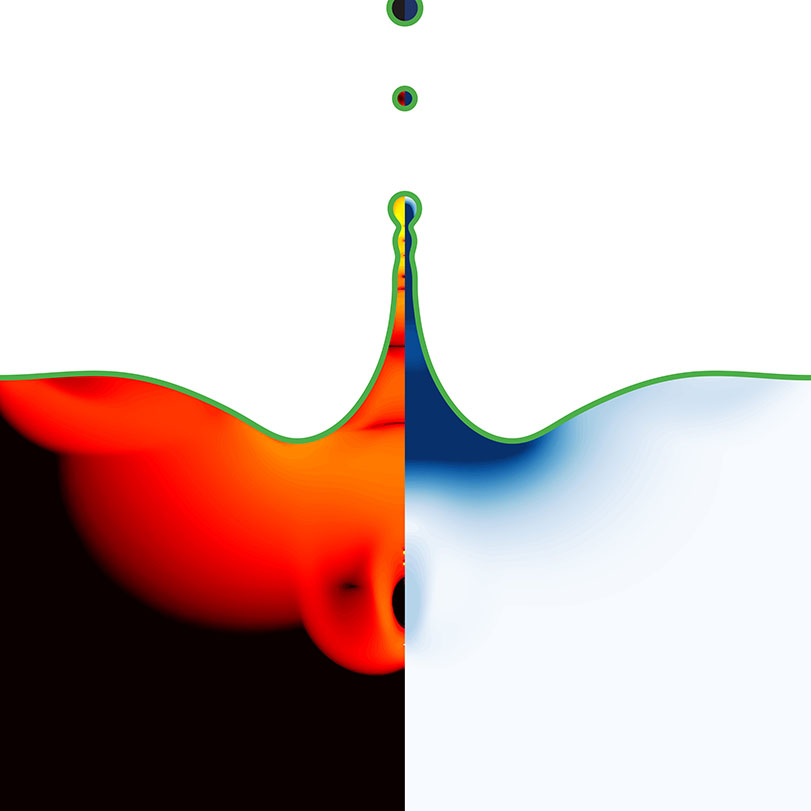
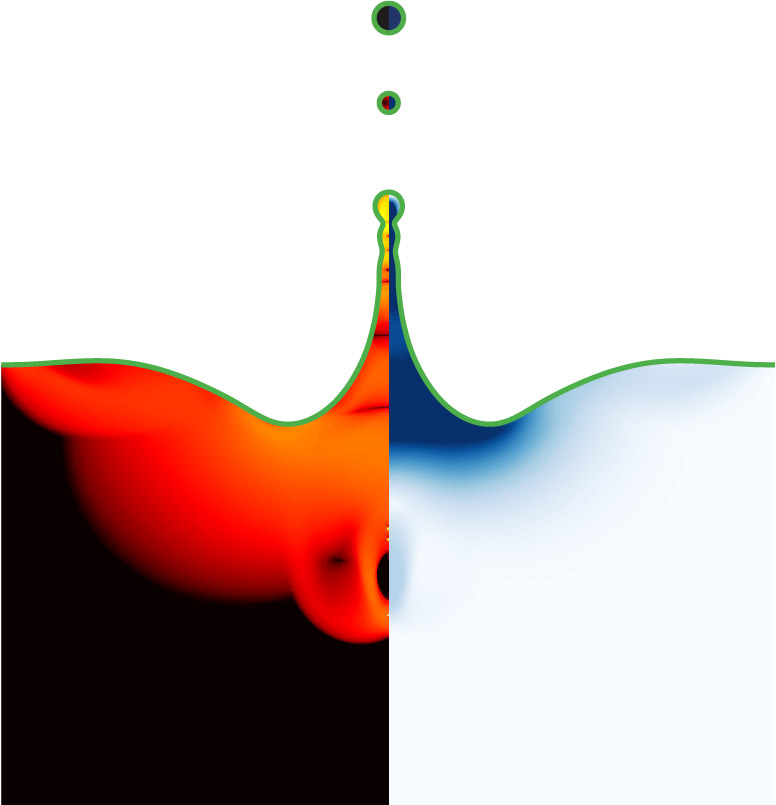
feat(styles): Implement dark theme for website
This commit introduces a dark theme for the website, with the following key changes:

- Adjust padding and background styles for the main content area to better suit the dark theme.
- Update the styles for the "About" section, including the title and description, to work with the dark theme.
- Modify the styles for the "Intro" section, including the background image and content box, to work with the dark theme.
- Add custom styles for social icons in the "Intro" section to match the dark theme gradient.
- Implement dark theme styles for the "Team" section, including text colors, link colors, and background styles.
- Add theme-aware styles for the "About" and "News" content sections to ensure proper text and link colors.
- Adjust the styles for specific link types (PDF, DOI) in the "News" section to work with the dark theme.

These changes provide a cohesive dark theme experience for the website, improving the overall visual appeal and user experience.

Changed region(s): [[0.0, 0.2174, 1.0, 0.8385], [0.4639, 0.0, 0.5258, 0.0621], [0.4639, 0.0932, 0.5258, 0.1553]]

diff --git a/assets/css/styles.css b/assets/css/styles.css
@@ -71,6 +71,89 @@ body {
   color: white !important;
 }
 
+/* Theme-aware content styling */
+[data-theme="dark"] #about-content a,
+[data-theme="dark"] #news-content a {
+  color: #6fa1ff;
+}
+
+[data-theme="dark"] #about-content h1,
+[data-theme="dark"] #about-content h2,
+[data-theme="dark"] #about-content h3,
+[data-theme="dark"] #news-content h1,
+[data-theme="dark"] #news-content h2,
+[data-theme="dark"] #news-content h3 {
+  color: var(--color-text);
+}
+
+/* Handle specific link and icon coloring in news */
+[data-theme="dark"] #news-content a[href$=".pdf"] {
+  color: #6fa1ff !important;
+}
+
+[data-theme="dark"] #news-content a[href^="https://doi.org"] {
+  color: #ff8650 !important;
+}
+
+[data-theme="dark"] #news-content a[href$=".pdf"] i,
+[data-theme="dark"] #news-content a[href^="https://doi.org"] i {
+  color: inherit !important;
+}
+
+/* Fix image shadows in dark mode */
+[data-theme="dark"] #news-content img {
+  box-shadow: 0 4px 8px rgba(0, 0, 0, 0.4) !important;
+}
+
+/* Fix section backgrounds in dark mode */
+[data-theme="dark"] .s-about,
+[data-theme="dark"] .s-featured,
+[data-theme="dark"] .s-featured__left,
+[data-theme="dark"] .s-featured__right,
+[data-theme="dark"] .featured-paper {
+  background-color: var(--color-background) !important;
+}
+
+/* Match About and News container styles in dark mode */
+[data-theme="dark"] .s-about__grid {
+  background: linear-gradient(145deg, rgba(35, 35, 45, 0.7), rgba(30, 30, 38, 0.8)) !important;
+  backdrop-filter: blur(12px);
+  border: 1px solid rgba(255, 255, 255, 0.1);
+}
+
+/* Fix h3 headings in dark mode */
+[data-theme="dark"] h3 {
+  color: #e0e0e0 !important;
+}
+
+/* YouTube stats card theme switching */
+.youtube-stats-light {
+  display: block;
+}
+
+.youtube-stats-dark {
+  display: none;
+}
+
+[data-theme="dark"] .youtube-stats-light {
+  display: none;
+}
+
+[data-theme="dark"] .youtube-stats-dark {
+  display: block;
+}
+
+/* Fix box shadows and borders in dark mode */
+[data-theme="dark"] .featured-paper,
+[data-theme="dark"] .s-about__grid {
+  box-shadow: 0 4px 16px rgba(0, 0, 0, 0.4) !important;
+  border: 1px solid rgba(255, 255, 255, 0.1) !important;
+}
+
+[data-theme="dark"] .s-about__social-header {
+  border-bottom: 1px solid rgba(255, 255, 255, 0.1);
+}
+
 /* Preloader */
 #preloader {
   position: fixed;
@@ -347,6 +430,12 @@ body {
   filter: brightness(0.9) contrast(1.1);
 }
 
+[data-theme="dark"] .s-intro__bg {
+  background-image: url('../../featured/GraphicalAbstract_v7_FrontOnly-darkTheme.jpg');
+  opacity: 0.9;
+  filter: brightness(0.85) contrast(1.15);
+}
+
 .s-intro__content {
   max-width: 800px;
   margin: 0 auto;
@@ -357,6 +446,25 @@ body {
   padding: 4rem;
   border-radius: 10px;
   box-shadow: 0 4px 30px rgba(0, 0, 0, 0.2);
+}
+
+[data-theme="dark"] .s-intro__content {
+  background: linear-gradient(145deg, rgba(35, 35, 45, 0.75), rgba(30, 30, 38, 0.85));
+  box-shadow: 0 4px 30px rgba(0, 0, 0, 0.3);
+  border: 1px solid rgba(255, 255, 255, 0.1);
+}
+
+/* Social icons styling - matching title gradient in dark mode */
+[data-theme="dark"] .ai-orcid {
+  color: #ff8888 !important; /* Match left side of gradient (red) */
+}
+
+[data-theme="dark"] .fa-github {
+  color: #9077ff !important; /* Match middle of gradient (purple/blue mix) */
+}
+
+[data-theme="dark"] .ai-google-scholar {
+  color: #546cff !important; /* Match right side of gradient (blue) */
 }
 
 .s-intro__pretitle {
@@ -387,8 +495,25 @@ body {
   background-clip: text;
   color: transparent;
   text-shadow: 2px 2px 3px rgba(0, 0, 0, 0.2);
-  letter-spacing: 0.02em;
+  letter-spacing: 0.015em;
   font-weight: 800;
+  -webkit-font-smoothing: antialiased;
+  -moz-osx-font-smoothing: grayscale;
+  text-rendering: optimizeLegibility;
+}
+
+[data-theme="dark"] .s-intro__title {
+  background: linear-gradient(90deg, 
+    #ff8888 0%, 
+    #ff6666 35%, 
+    #8897ff 65%, 
+    #514880 100%
+  );
+  -webkit-background-clip: text;
+  background-clip: text;
+  -webkit-text-stroke: 0.5px rgba(255, 255, 255, 0.15);
+  text-shadow: none;
+  letter-spacing: 0.015em;
 }
 
 .s-intro__subtitle {
@@ -402,6 +527,43 @@ body {
   text-shadow: 1px 1px 2px rgba(0, 0, 0, 0.2);
 }
 
+[data-theme="dark"] .s-intro__subtitle {
+  color: #e0e0e0;
+  text-shadow: 1px 1px 2px rgba(0, 0, 0, 0.4);
+}
+
+/* Featured Research button styling */
+.s-intro__subtitle a.smoothscroll {
+  display: inline-block;
+  padding: 8px 16px;
+  background-color: rgba(3, 102, 214, 0.9); 
+  color: white;
+  text-decoration: none;
+  border-radius: 25px;
+  font-size: 0.9em;
+  transition: all 0.3s ease;
+  box-shadow: 0 2px 4px rgba(0,0,0,0.1);
+  backdrop-filter: blur(5px);
+}
+
+.s-intro__subtitle a.smoothscroll:hover {
+  background-color: rgba(3, 102, 214, 1);
+  box-shadow: 0 4px 8px rgba(0,0,0,0.2);
+  transform: translateY(-2px);
+}
+
+[data-theme="dark"] .s-intro__subtitle a.smoothscroll {
+  background-color: rgba(33, 107, 255, 0.8);
+  box-shadow: 0 2px 8px rgba(0,0,0,0.25);
+  color: #ffffff;
+  text-shadow: 0px 1px 2px rgba(0,0,0,0.2);
+}
+
+[data-theme="dark"] .s-intro__subtitle a.smoothscroll:hover {
+  background-color: rgba(59, 130, 255, 0.9);
+  box-shadow: 0 4px 12px rgba(59, 130, 255, 0.3);
+}
+
 .s-intro__caption {
   margin-top: 2rem;
   font-size: 1.6rem;
@@ -410,6 +572,18 @@ body {
   animation: fadeInUp 1s ease forwards;
   animation-delay: 0.4s;
   font-weight: 500;
+}
+
+[data-theme="dark"] .s-intro__caption {
+  color: #e0e0e0;
+}
+
+[data-theme="dark"] .s-intro__caption a {
+  color: #6fa1ff;
+}
+
+[data-theme="dark"] .s-intro__caption a:hover {
+  color: #8bb5ff;
 }
 
 .s-intro__caption p {
@@ -472,20 +646,25 @@ body {
 .s-about__grid {
   display: grid;
   grid-template-columns: minmax(450px, 1.2fr) minmax(500px, 1fr);
-  gap: 4rem;
+  gap: 2.5rem;
   align-items: start;
+  background: rgba(255, 255, 255, 0.7);
+  backdrop-filter: blur(8px);
+  border-radius: 15px;
+  box-shadow: 0 4px 30px rgba(0, 0, 0, 0.1);
+  padding: 3rem;
+  overflow: hidden;
 }
 
 .s-about__left {
-  padding-right: 2rem;
+  padding-right: 1.5rem;
   display: flex;
   flex-direction: column;
   height: auto;
 }
 
 .s-about__right {
-  padding-left: 2rem;
-  border-left: 1px solid rgba(0, 0, 0, 0.1);
+  padding-left: 1.5rem;
   position: sticky;
   top: 10rem;
   height: calc(100vh - 20rem);
@@ -496,10 +675,6 @@ body {
   height: 100%;
   display: flex;
   flex-direction: column;
-  background: rgba(255, 255, 255, 0.25);
-  backdrop-filter: blur(8px);
-  border-radius: 10px;
-  box-shadow: 0 4px 30px rgba(0, 0, 0, 0.1);
   overflow: hidden;
 }
 
@@ -507,10 +682,9 @@ body {
   display: flex;
   align-items: center;
   gap: 1rem;
-  padding: 1.5rem 2rem;
+  padding: 1.2rem 2rem;
   border-bottom: 1px solid rgba(0, 0, 0, 0.1);
-  background: rgba(255, 255, 255, 0.3);
-  border-radius: 10px 10px 0 0;
+  margin-bottom: 0.5rem;
 }
 
 .s-about__social-header img {
@@ -550,7 +724,7 @@ body {
   flex: 1;
   overflow-y: auto;
   overflow-x: hidden;
-  padding: 2rem;
+  padding: 1.5rem 2rem;
   scrollbar-width: thin;
   scrollbar-color: rgba(0, 0, 0, 0.2) transparent;
 }
@@ -611,6 +785,10 @@ body {
   color: #4c6ef5;
 }
 
+[data-theme="dark"] .s-about__desc h2 {
+  color: #6e8aff;
+}
+
 .s-about__desc h3 {
   font-size: 2rem;
   margin: 0 0 0.5rem;
@@ -618,6 +796,12 @@ body {
   border-bottom: 2px solid rgba(250, 82, 82, 0.2);
   padding-bottom: 0.5rem;
   display: inline-block;
+}
+
+[data-theme="dark"] .s-about__desc h3 {
+  color: #ff8989 !important;
+  border-bottom: 2px solid rgba(255, 137, 137, 0.3);
+  text-shadow: 0 0 10px rgba(255, 137, 137, 0.2);
 }
 
 .s-about__desc p {
@@ -883,7 +1067,7 @@ body {
 /* Team Section */
 .s-team {
   padding: 10rem 2rem;
-  background: white;
+  background: var(--color-background);
   min-height: 100vh;
   display: flex;
   flex-direction: column;
@@ -900,7 +1084,7 @@ body {
 .s-team__desc h1 {
   font-size: 4rem;
   margin-bottom: 4rem;
-  color: #2b2b2b;
+  color: var(--color-text);
 }
 
 .team-grid {
@@ -1014,6 +1198,41 @@ body {
   overflow: hidden;
   content-visibility: auto;
   contain: layout paint;
+}
+
+/* Dark theme text color fixes for team section */
+[data-theme="dark"] .team-member h2,
+[data-theme="dark"] .team-member p,
+[data-theme="dark"] .team-member strong,
+[data-theme="dark"] .team-member ul,
+[data-theme="dark"] .team-member li,
+[data-theme="dark"] .team-section h1 {
+  color: var(--color-text);
+}
+
+/* Fix link colors in team section for dark theme */
+[data-theme="dark"] .team-member a:not(.cv-button):not([href^="https://github"]):not([href^="https://scholar.google"]):not([href^="https://orcid"]):not([href^="https://bsky"]) {
+  color: var(--color-link);
+}
+
+[data-theme="dark"] .team-member a:not(.cv-button):not([href^="https://github"]):not([href^="https://scholar.google"]):not([href^="https://orcid"]):not([href^="https://bsky"]):hover {
+  color: var(--color-link-hover);
+}
+
+[data-theme="dark"] .member-image {
+  background-color: #2a2a2a;
+}
+
+[data-theme="dark"] .team-member {
+  background: rgba(30, 30, 38, 0.7);
+  box-shadow: 0 4px 16px rgba(0, 0, 0, 0.3);
+  border: 1px solid rgba(255, 255, 255, 0.1);
+}
+
+/* Make GitHub and Bluesky icons white in dark theme */
+[data-theme="dark"] .fa-github,
+[data-theme="dark"] .fa-bluesky {
+  color: white !important;
 }
 
 .member-image::before {

diff --git a/News.md b/News.md
@@ -3,5 +3,12 @@
 - **Feb 2025**: [Sanjay, V., Zhang, B., Lv, C., & Lohse, D. J. Fluid Mech., 1004, A6 (2025) selected as the cover article.](/research#14)
 
   <div style="text-align: center; margin: 15px 0;">
-    <img src="/assets/images/covers/2025-02-JFM_Vol1004.jpeg" alt="JFM cover" style="max-width: 80%; border-radius: 5px; box-shadow: 0 4px 8px rgba(0,0,0,0.1);">
+    <a href="/research#14">
+      <img src="/assets/images/covers/2025-02-JFM_Vol1004.jpeg" alt="JFM cover" style="max-width: 80%; border-radius: 5px; box-shadow: 0 4px 8px rgba(0,0,0,0.1); cursor: pointer;">
+    </a>
+    
+    <div style="margin-top: 10px; display: flex; gap: 15px; justify-content: center;">
+      <a href="/assets/images/covers/2025-02-JFM_Vol1004.pdf" style="display: flex; align-items: center; text-decoration: none; color: #0056b3; font-size: 1em; font-weight: 500;"><i class="fa-solid fa-download" style="margin-right: 8px; font-size: 1.2em;"></i>Download Cover</a>
+      <a href="https://doi.org/10.1017/jfm.2024.982" style="display: flex; align-items: center; text-decoration: none; color: #cf4900; font-size: 1em; font-weight: 500;"><i class="fa-solid fa-arrow-up-right-from-square" style="margin-right: 8px; font-size: 1.2em;"></i>View Paper</a>
+    </div>
   </div>

diff --git a/aboutCoMPhy.md b/aboutCoMPhy.md
@@ -42,8 +42,6 @@ Feel free to contact us for discussions about our work or anything else related 
 For supplementary videos and teaser of our upcoming work:
 
 <a href="https://www.youtube.com/@CoMPhyLab" target="_blank" aria-label="Visit our YouTube channel">
-  <picture>
-    <source media="(prefers-color-scheme: dark)" srcset="https://cust-youtube-stats-card.vercel.app/api?channelid=UC-eTdHrAM_eQrWOtNLoT19w&theme=solarized_light&cache_seconds=0" width="auto" height="200px">
-    <img alt="Vatsal's YouTube Stats" src="https://cust-youtube-stats-card.vercel.app/api?channelid=UC-eTdHrAM_eQrWOtNLoT19w&theme=vision_friendly_dark&hide_border=true" width="auto" height="200px">
-  </picture>
+  <img class="youtube-stats-light" alt="Vatsal's YouTube Stats" src="https://cust-youtube-stats-card.vercel.app/api?channelid=UC-eTdHrAM_eQrWOtNLoT19w&theme=solarized_light&hide_border=true" width="auto" height="200px">
+  <img class="youtube-stats-dark" alt="Vatsal's YouTube Stats" src="https://cust-youtube-stats-card.vercel.app/api?channelid=UC-eTdHrAM_eQrWOtNLoT19w&theme=vision_friendly_dark&hide_border=true" width="auto" height="200px">
 </a>